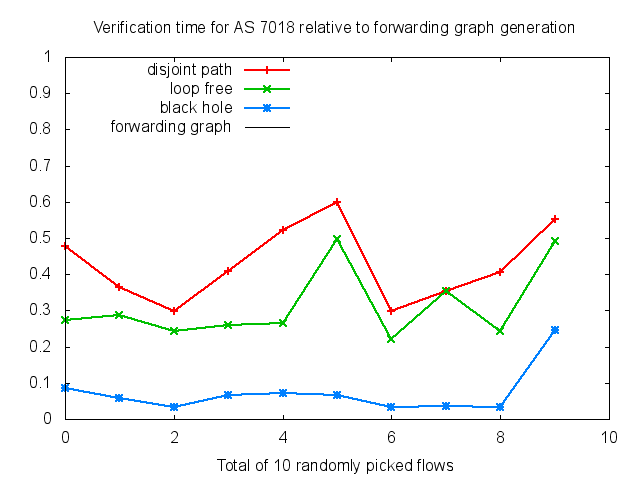
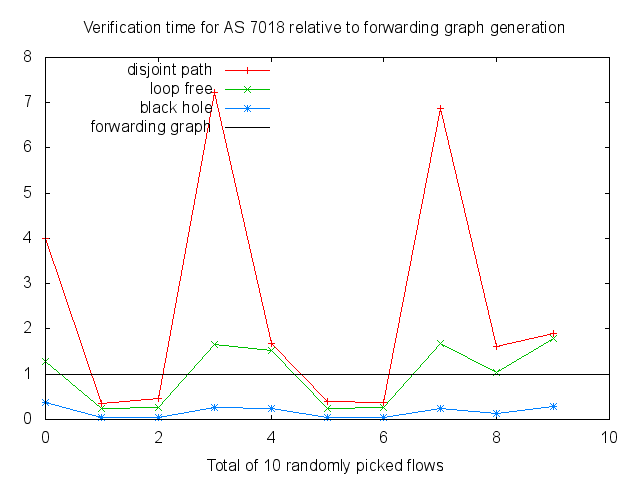
foo

diff --git a/codes/prototype/plotAnySyn.py b/codes/prototype/plotAnySyn.py
@@ -99,7 +99,7 @@ def plot_verify (username, dbname, rounds):
     print "plot synthesize: start gnuplot"
 
     try:
-        g = Gnuplot.Gnuplot ()
+        g = Gnuplot.Gnuplot (persist = 1)
         g.reset ()
         g.title ("Verification time for AS " + str (dbname[2:6]) + " relative to forwarding graph generation")
         g.xlabel('Total of ' + str (rounds) + ' randomly picked flows')
@@ -427,7 +427,7 @@ if __name__ == '__main__':
     dbname_list = ["as4755ribd", "as6461ribd", "as7018ribd"]
     # dbname_list = ["as4755rib1000", "as6461rib1000", "as7018rib1000"]
     username = "anduo"
-    flow_num = 1000
+    flow_num = 10
 
     plot_verify (username, dbname_list[2], flow_num)
 
